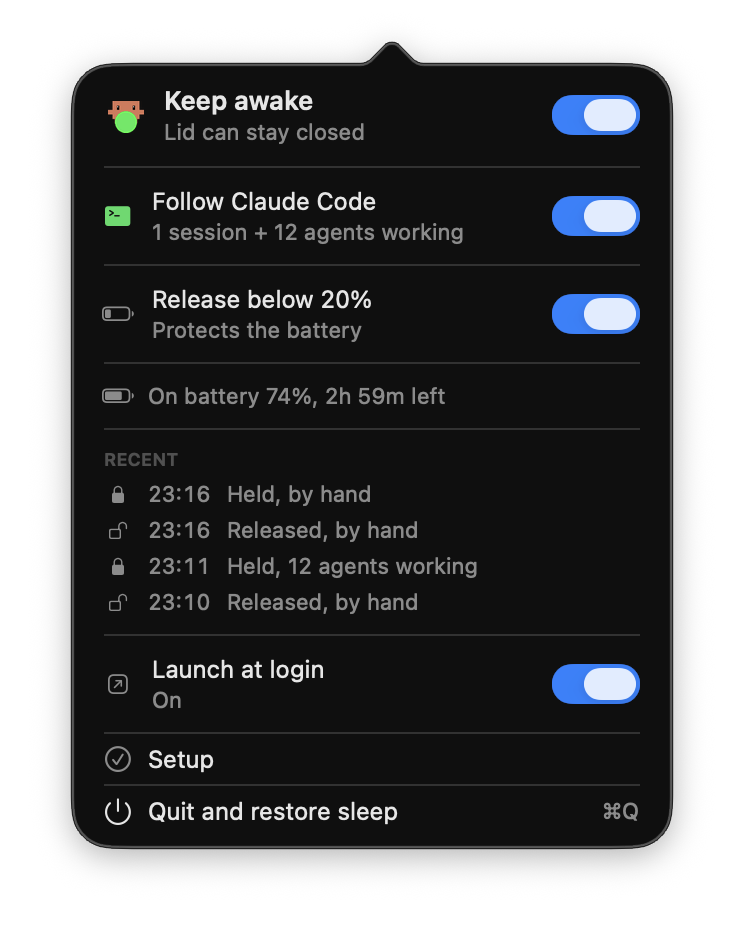
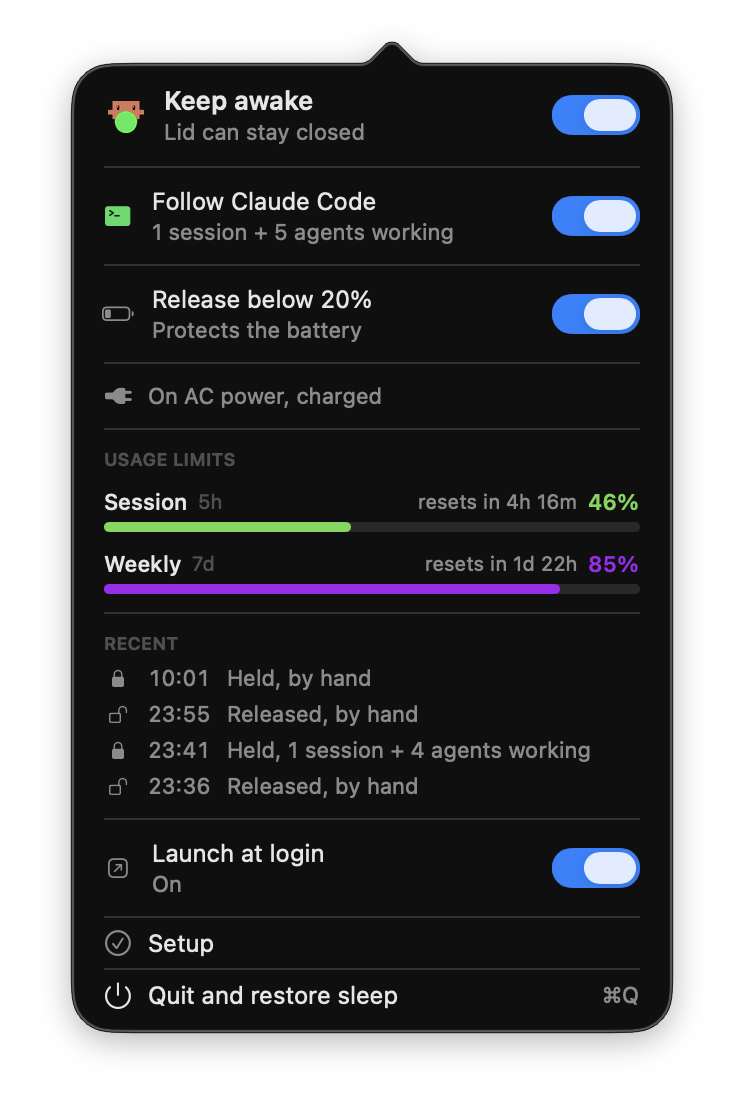
feat: live 5h/7d usage bars with reset countdowns
The percentages ride the statusline stream and exist nowhere else, so setup
wraps the user's statusline command with a tee that copies each payload to a
file on its way through; the statusline sees identical input and output.
The panel renders both windows as Claude Code reports them, hud-coloured,
with countdowns derived live from the resets_at timestamps. No statusline
configured means no wrap and a hidden section, never stale bars.

Changed region(s): [[0.0927, 0.0312, 0.9274, 0.9375]]

diff --git a/Panel.swift b/Panel.swift
@@ -129,6 +129,10 @@ struct PanelView: View {
             }
             statusRow
             separator
+            if let usage = power.usage {
+                usageSection(usage)
+                separator
+            }
             recent
             separator
             loginRow
@@ -207,6 +211,73 @@ struct PanelView: View {
 
     private var separator: some View {
         Divider().padding(.horizontal, 16)
+    }
+
+    /// The 5h and 7d windows as Claude Code reports them, tapped from the
+    /// statusline stream. Colours match the claude-hud bars people already
+    /// read these numbers from: green for the session window, purple weekly.
+    private static let fiveHourColor = Color(red: 0.42, green: 0.85, blue: 0.30)
+    private static let sevenDayColor = Color(red: 0.64, green: 0.13, blue: 0.94)
+
+    private func usageSection(_ usage: UsageLimits) -> some View {
+        VStack(alignment: .leading, spacing: 9) {
+            Text("USAGE LIMITS")
+                .font(.system(size: 9, weight: .semibold))
+                .foregroundStyle(.tertiary)
+            if let percent = usage.fiveHour {
+                usageBar(title: "Session", window: "5h", percent: percent,
+                         resetsAt: usage.fiveHourResetsAt, color: Self.fiveHourColor)
+            }
+            if let percent = usage.sevenDay {
+                usageBar(title: "Weekly", window: "7d", percent: percent,
+                         resetsAt: usage.sevenDayResetsAt, color: Self.sevenDayColor)
+            }
+        }
+        .padding(.horizontal, 16)
+        .padding(.vertical, 9)
+    }
+
+    private func usageBar(title: String, window: String, percent: Int,
+                          resetsAt: Date?, color: Color) -> some View {
+        VStack(alignment: .leading, spacing: 3) {
+            HStack(spacing: 5) {
+                Text(title)
+                    .font(.system(size: 11, weight: .medium))
+                Text(window)
+                    .font(.system(size: 10))
+                    .foregroundStyle(.tertiary)
+                Spacer(minLength: 8)
+                if let resetsAt, let countdown = resetsIn(resetsAt) {
+                    Text(countdown)
+                        .font(.system(size: 10))
+                        .foregroundStyle(.secondary)
+                }
+                Text("\(percent)%")
+                    .font(.system(size: 11, weight: .semibold).monospacedDigit())
+                    .foregroundStyle(color)
+            }
+            GeometryReader { geometry in
+                ZStack(alignment: .leading) {
+                    Capsule().fill(Color.primary.opacity(0.12))
+                    Capsule()
+                        .fill(color)
+                        .frame(width: max(6, geometry.size.width * CGFloat(percent) / 100))
+                }
+            }
+            .frame(height: 5)
+        }
+    }
+
+    /// "resets in 4h 21m" style, live because it derives from the panel clock.
+    private func resetsIn(_ date: Date) -> String? {
+        let seconds = Int(date.timeIntervalSince(tick))
+        guard seconds > 0 else { return nil }
+        let days = seconds / 86400
+        let hours = (seconds % 86400) / 3600
+        let minutes = (seconds % 3600) / 60
+        if days > 0 { return "resets in \(days)d \(hours)h" }
+        if hours > 0 { return "resets in \(hours)h \(minutes)m" }
+        return "resets in \(minutes)m"
     }
 
     /// Shown while a Claude usage limit is in force. Claims were swept when it

diff --git a/Usage.swift b/Usage.swift
@@ -1,0 +1,65 @@
+import Foundation
+
+// The 5-hour and 7-day usage percentages, as Claude Code reports them.
+//
+// Claude Code pipes `rate_limits` into the configured statusline command's
+// stdin on every render. That stream is the only official local source of
+// these numbers — hooks carry none of it — so Setup wraps the user's
+// statusline command with a `tee` that copies each payload to a file on its
+// way through, and this reads the copy. No statusline, no numbers: the panel
+// simply hides the section.
+struct UsageLimits: Equatable {
+    var fiveHour: Int?
+    var sevenDay: Int?
+    var fiveHourResetsAt: Date?
+    var sevenDayResetsAt: Date?
+    var asOf: Date
+}
+
+enum UsageStore {
+    static var url: URL {
+        ClaimStore.directory.deletingLastPathComponent()
+            .appendingPathComponent("statusline.json")
+    }
+
+    /// Shell fragment Setup prepends to the statusline command. The 2>/dev/null
+    /// matters: if the directory is missing, tee must complain silently and
+    /// keep piping, never break the user's statusline.
+    static let teePrefix =
+        "tee \"$HOME/Library/Application Support/StayAwake/statusline.json\" 2>/dev/null | "
+
+    /// nil on missing, stale or partially-written files. A tee mid-write can
+    /// hand us truncated JSON; the caller keeps its previous value for that.
+    static func read(maxAge: TimeInterval = 24 * 3600) -> UsageLimits? {
+        guard let attributes = try? FileManager.default.attributesOfItem(atPath: url.path),
+              let modified = attributes[.modificationDate] as? Date,
+              Date().timeIntervalSince(modified) < maxAge,
+              let data = try? Data(contentsOf: url),
+              let object = try? JSONSerialization.jsonObject(with: data) as? [String: Any],
+              let limits = object["rate_limits"] as? [String: Any]
+        else { return nil }
+
+        func percent(_ key: String) -> Int? {
+            guard let window = limits[key] as? [String: Any],
+                  let value = window["used_percentage"] as? NSNumber
+            else { return nil }
+            return min(100, max(0, Int(value.doubleValue.rounded())))
+        }
+        func resetsAt(_ key: String) -> Date? {
+            guard let window = limits[key] as? [String: Any],
+                  let epoch = window["resets_at"] as? NSNumber
+            else { return nil }
+            return Date(timeIntervalSince1970: epoch.doubleValue)
+        }
+
+        let fiveHour = percent("five_hour")
+        let sevenDay = percent("seven_day")
+        guard fiveHour != nil || sevenDay != nil else { return nil }
+        return UsageLimits(
+            fiveHour: fiveHour,
+            sevenDay: sevenDay,
+            fiveHourResetsAt: resetsAt("five_hour"),
+            sevenDayResetsAt: resetsAt("seven_day"),
+            asOf: modified)
+    }
+}

diff --git a/Power.swift b/Power.swift
@@ -51,6 +51,9 @@ final class PowerController: ObservableObject {
     /// Written by the hook helper when a turn dies on the limit; cleared the
     /// moment fresh work proves the limit lifted.
     @Published private(set) var limitNotice: String?
+    /// 5h/7d usage percentages tapped from the statusline stream, nil when no
+    /// statusline feed exists (no wrap installed, or no session rendered yet).
+    @Published private(set) var usage: UsageLimits?
     /// When the poll loop last completed. Surfaced in the panel so a stalled
     /// loop shows as a warning rather than quietly serving stale readings,
     /// which is how a frozen battery percentage once drained the machine.
@@ -218,6 +221,13 @@ final class PowerController: ObservableObject {
         if notice != limitNotice {
             if let notice { log(.limit, notice) }
             limitNotice = notice
+        }
+        // Keep the previous reading through a mid-write parse failure; drop it
+        // only once it is genuinely old (feed gone, e.g. wrap removed).
+        if let fresh = UsageStore.read() {
+            usage = fresh
+        } else if let current = usage, Date().timeIntervalSince(current.asOf) > 24 * 3600 {
+            usage = nil
         }
         lastRefresh = Date()
         heartbeat()

diff --git a/Setup.swift b/Setup.swift
@@ -186,6 +186,19 @@ enum Setup {
         }
         settings["hooks"] = hooks
 
+        // Usage percentages ride the statusline stream and nowhere else, so
+        // tap it: prepend a tee that copies each payload to a file on its way
+        // into whatever statusline the user already runs. Only when one is
+        // configured — installing a statusline they didn't have would change
+        // their UI, so without one the usage section simply stays hidden.
+        if var statusline = settings["statusLine"] as? [String: Any],
+           statusline["type"] as? String == "command",
+           let command = statusline["command"] as? String,
+           !command.contains("StayAwake/statusline.json") {
+            statusline["command"] = UsageStore.teePrefix + command
+            settings["statusLine"] = statusline
+        }
+
         guard let data = try? JSONSerialization.data(
             withJSONObject: settings, options: [.prettyPrinted, .withoutEscapingSlashes, .sortedKeys])
         else { return "Could not encode settings.json" }

diff --git a/README.md b/README.md
@@ -6,7 +6,7 @@
 
 **Keep your Mac awake with the lid closed, automatically, only while Claude Code is actually working.**
 
-<img src="docs/panel.png" width="330" alt="The StayAwake panel: awake, following Claude Code, with 1 session and 12 agents working">
+<img src="docs/panel.png" width="330" alt="The StayAwake panel: following Claude Code with 1 session and 5 agents working, live 5h and 7d usage bars with reset countdowns">
 
 </div>
 
@@ -98,6 +98,14 @@ When a turn dies on the limit, StayAwake sweeps every claim and the panel shows
 "Claude usage limit hit · resets 3am" until fresh work proves the limit lifted.
 Detection is deliberately conservative: only a failed turn triggers it, so a
 conversation that merely mentions limits cannot.
+
+**Live usage bars.** The panel shows the 5-hour and 7-day windows as Claude
+Code itself reports them, with live reset countdowns. These percentages ride
+the statusline stream and exist nowhere else — no hook carries them — so setup
+wraps your statusline command with a `tee` that copies each payload to a file
+on its way through. Your statusline sees the same input and renders the same
+output; StayAwake reads the copy. Only installed when you already have a
+statusline configured, and the section hides itself when there is no feed.
 
 **An honest status row.** Battery, power source and the sleep flag are read
 in-process from IOKit, the same sources the menu bar battery flyout uses, and
